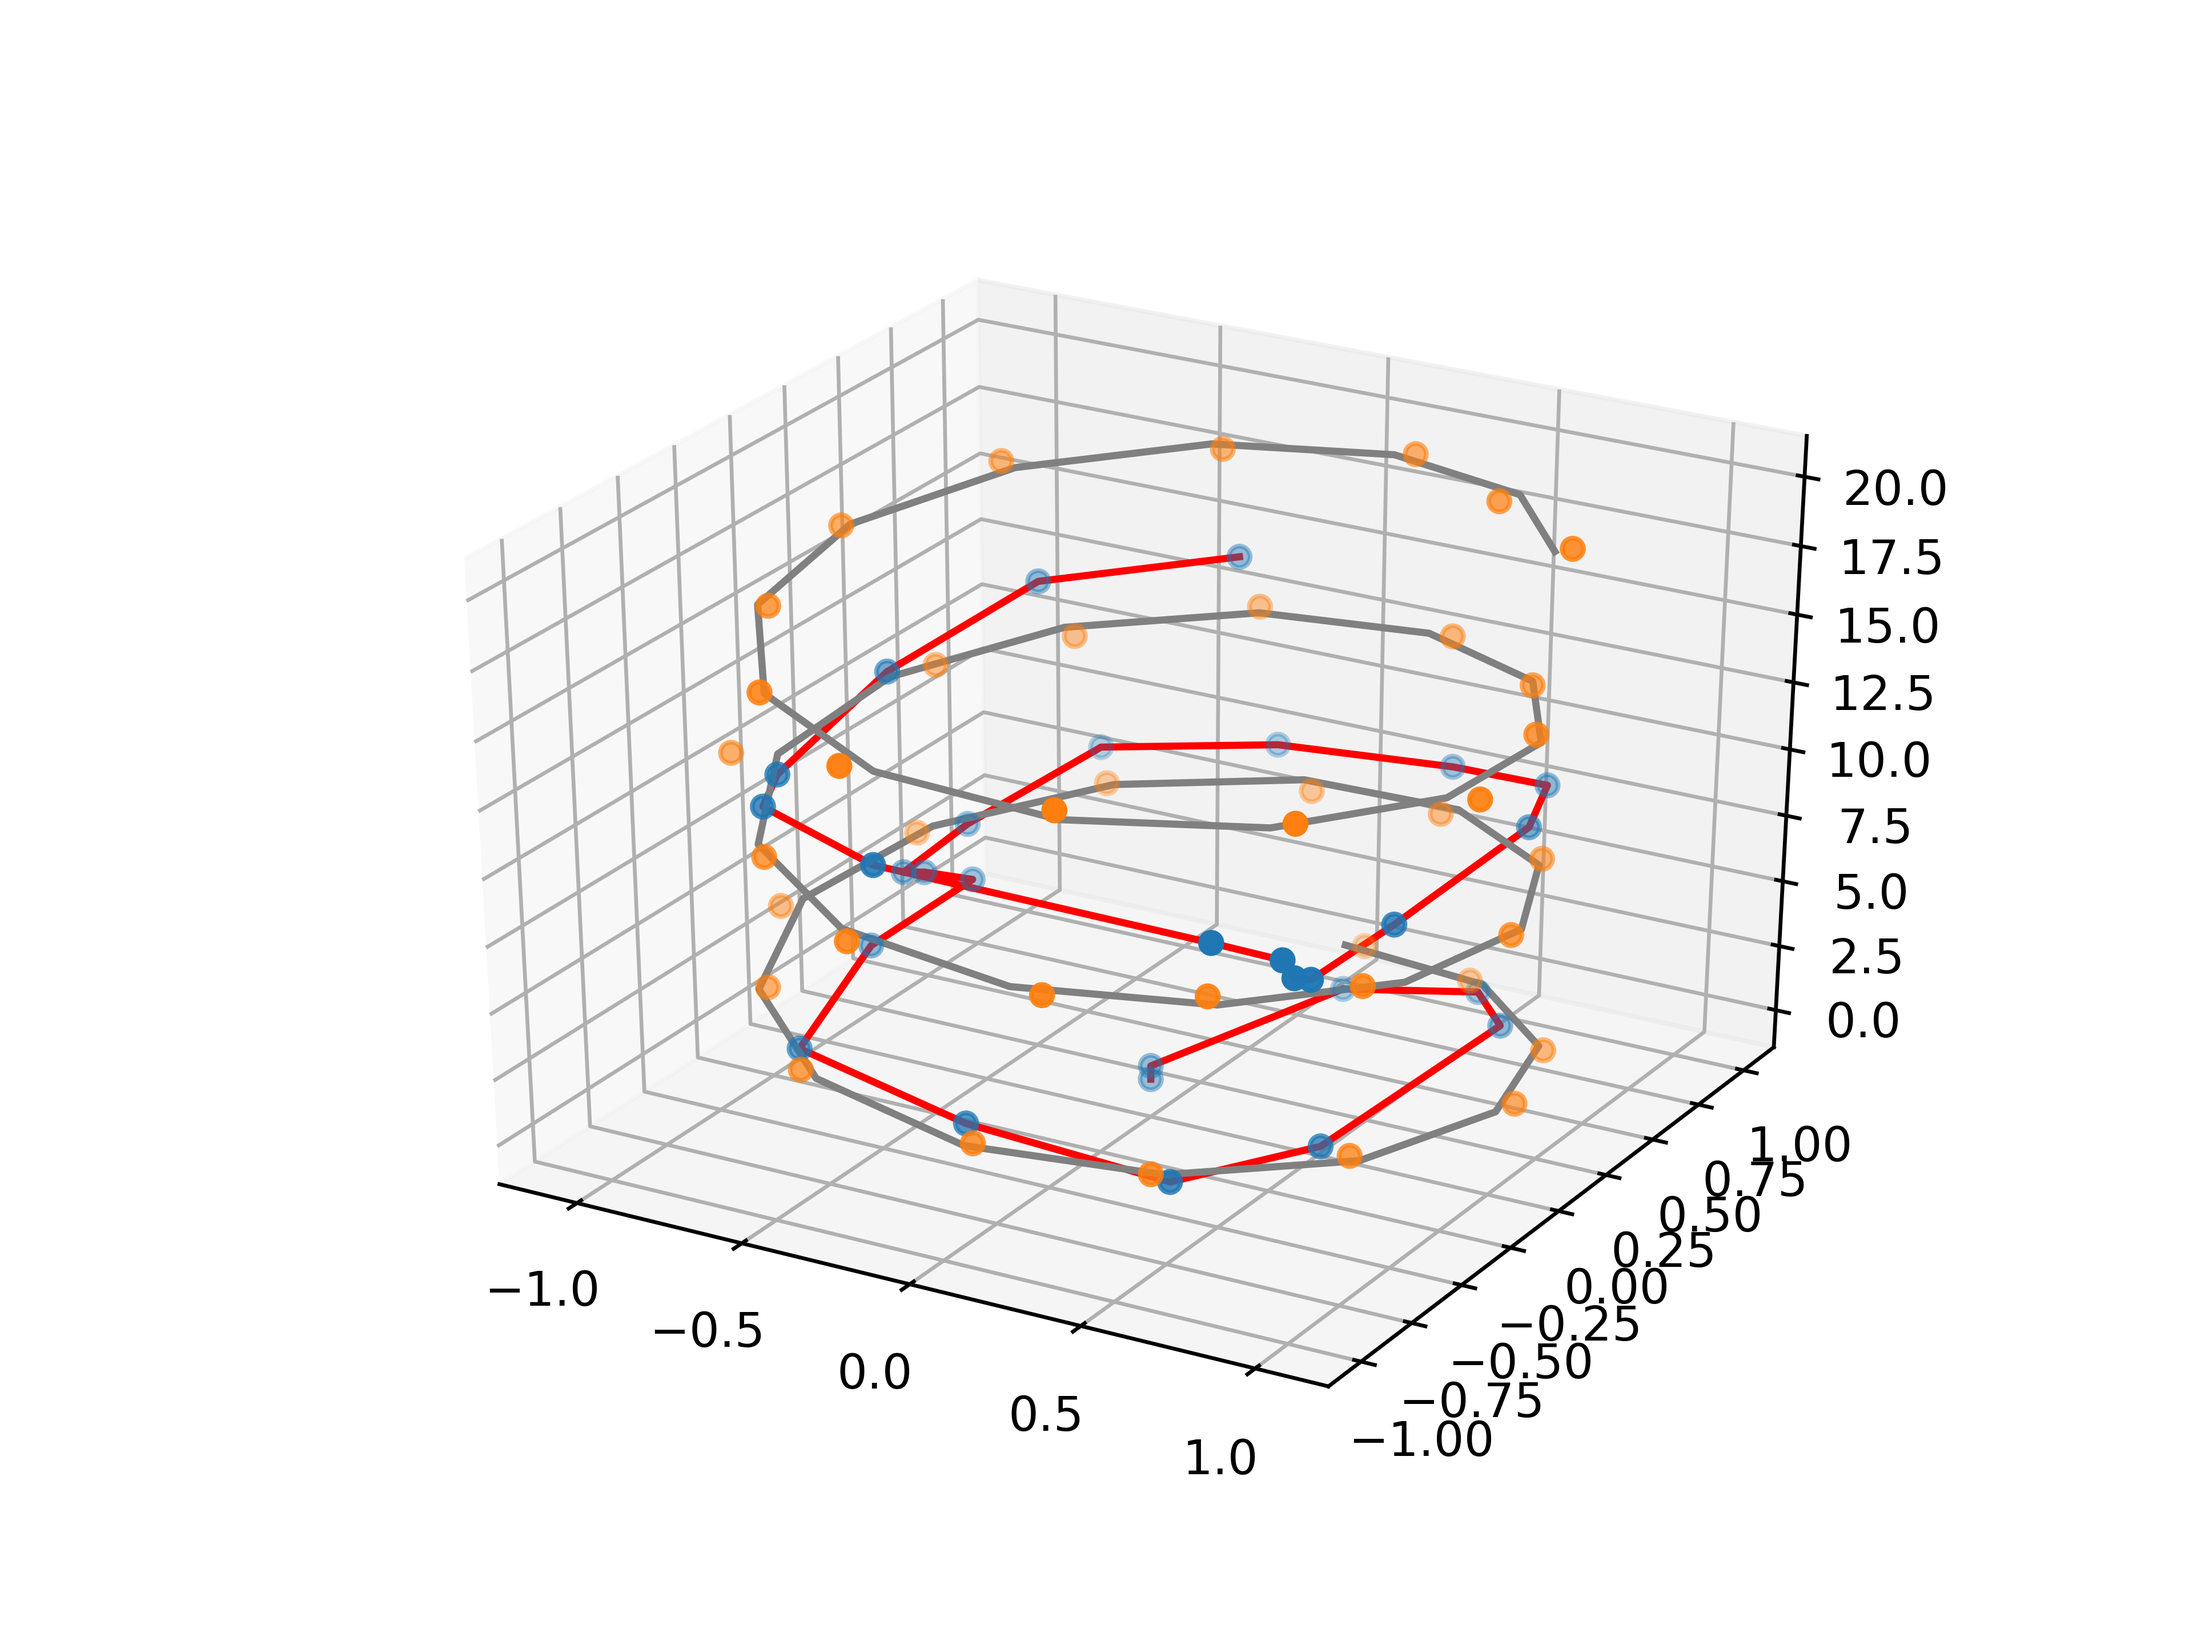
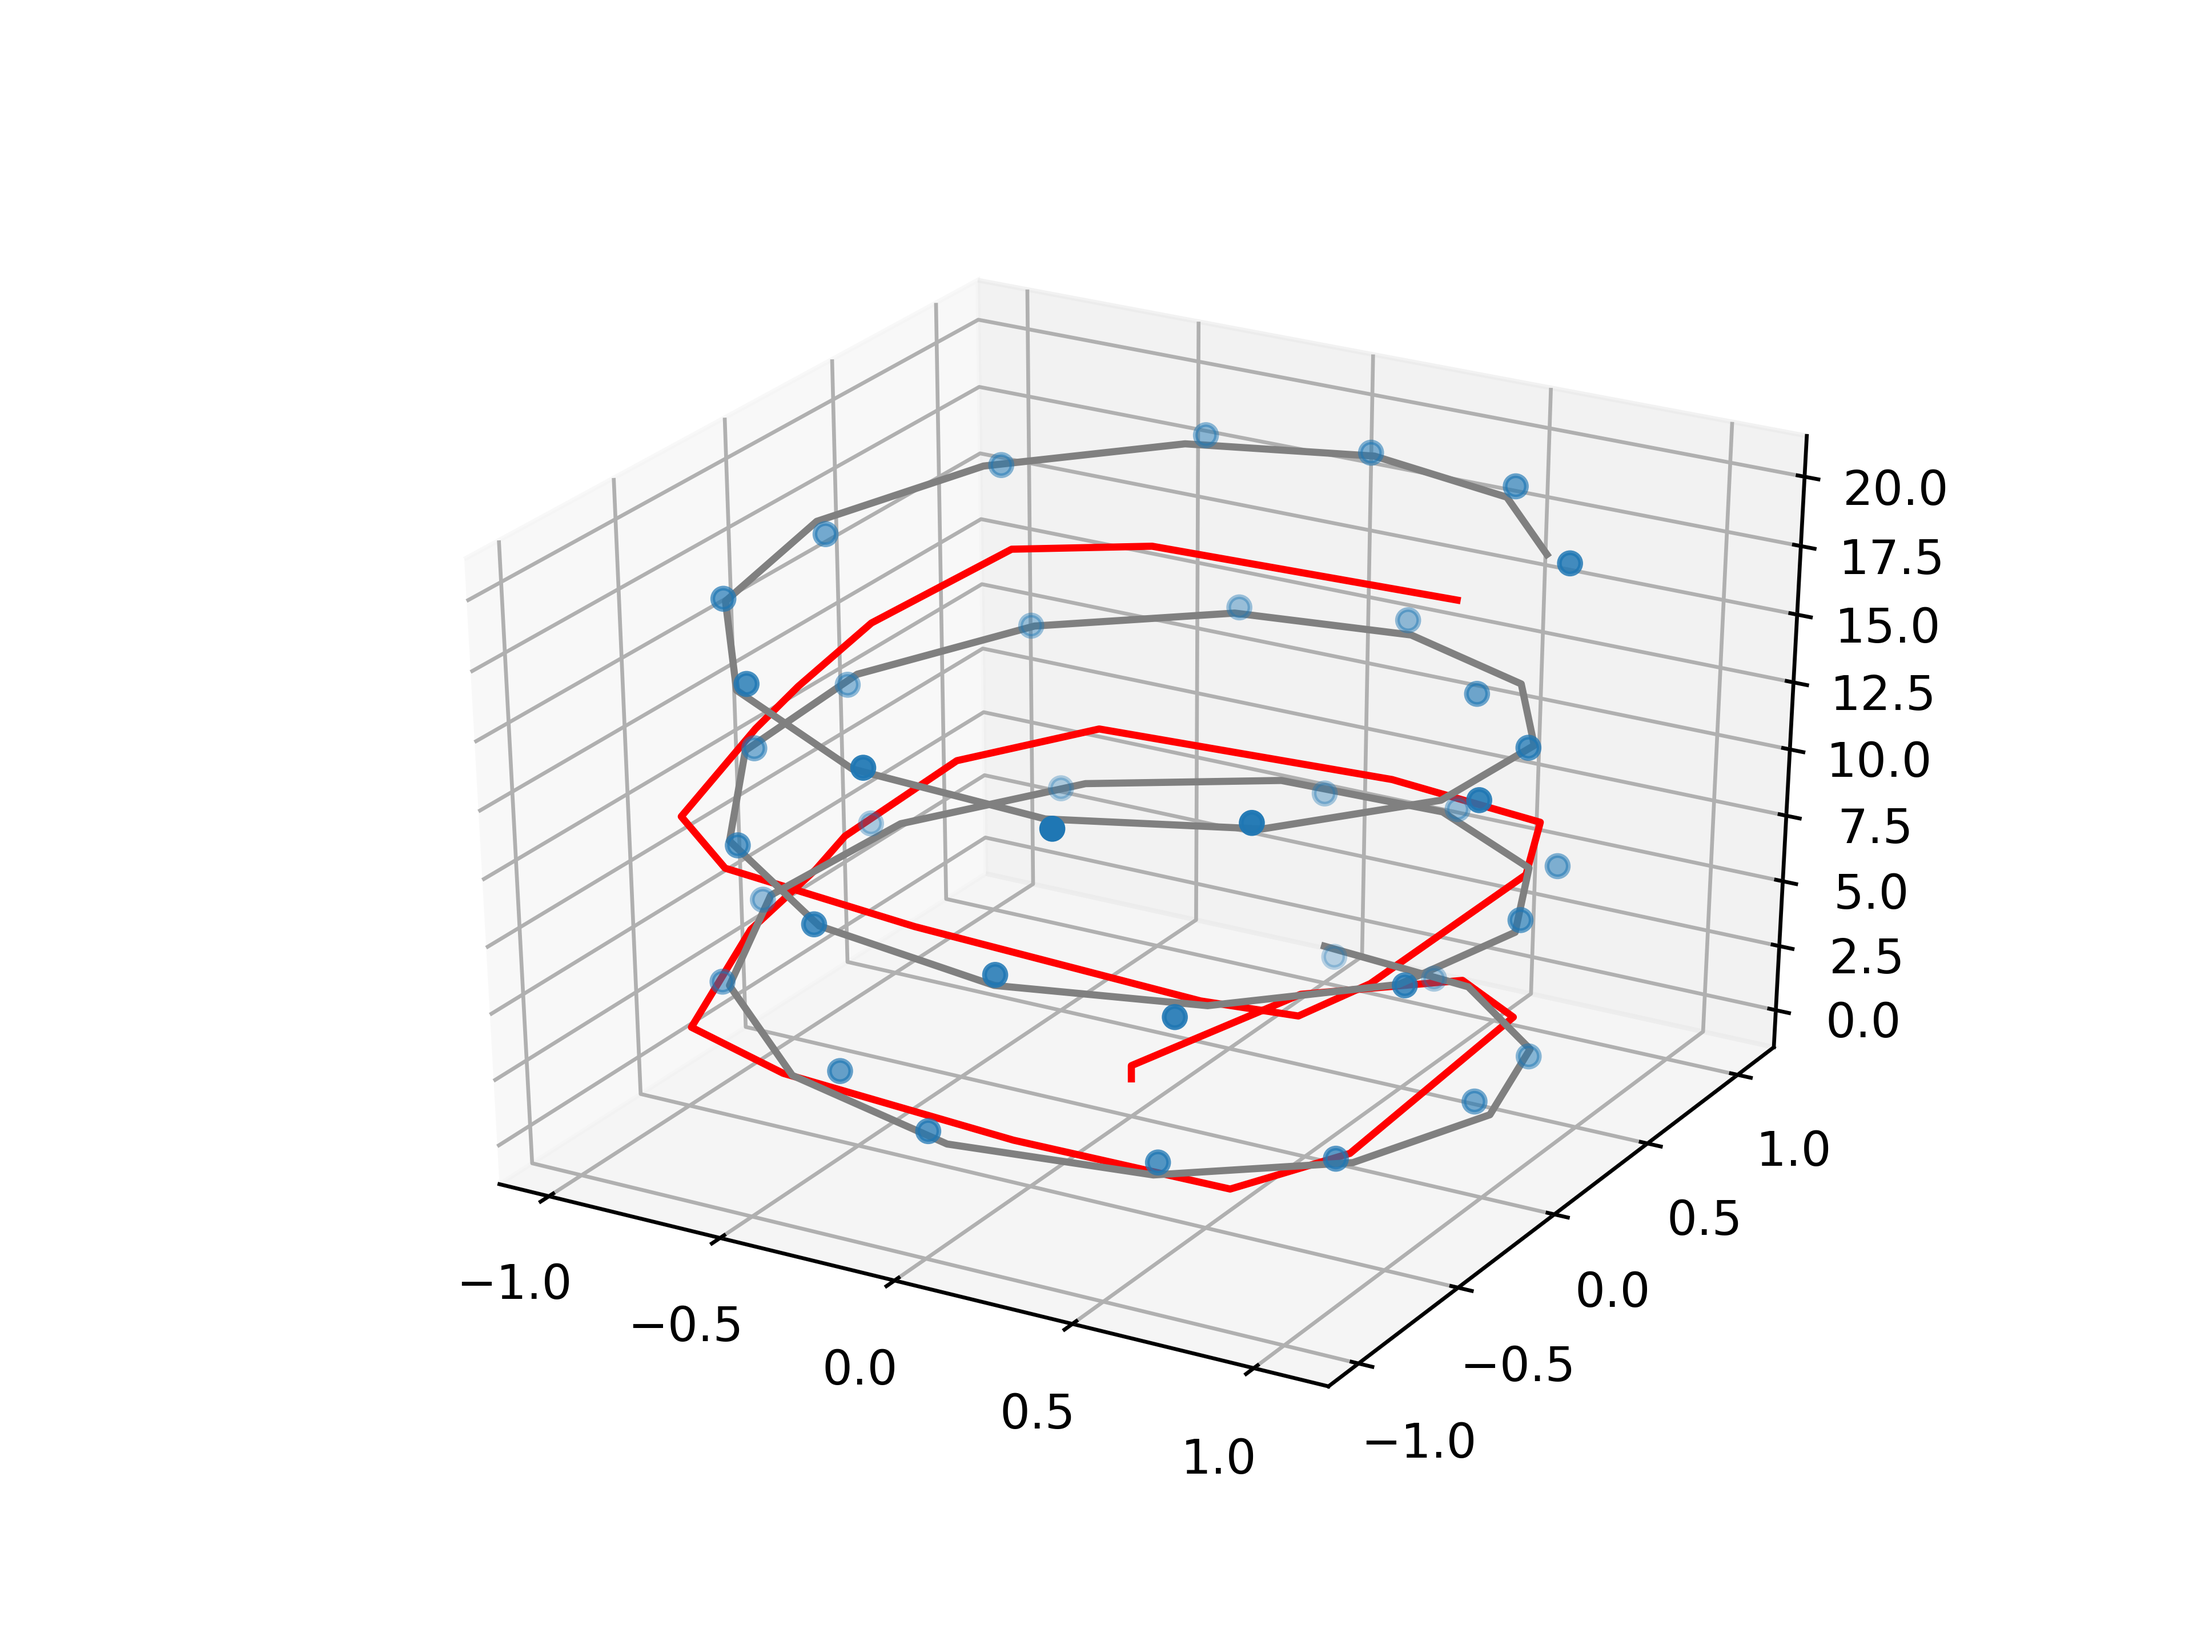
Created GRU_RNN

diff --git a/networks/gru_rnn.py b/networks/gru_rnn.py
@@ -1,0 +1,126 @@
+
+import torch
+import torch.nn as nn
+import torch.optim as optim
+
+import random
+import matplotlib.pyplot as plt
+
+from utils.linear import Linear
+from utils.rnn_cell import GRU_Cell
+from crossbar.crossbar import crossbar
+
+class GRU_RNN(nn.Module):
+
+    def __init__(self, input_layer_size, hidden_layer_size, output_layer_size, device_params):
+
+        super(LSTM_RNN, self).__init__()
+
+        self.input_layer_size = input_layer_size
+        self.hidden_layer_size = hidden_layer_size
+        self.output_layer_size = output_layer_size
+
+        self.cb = crossbar(device_params)
+
+        self.rnn_cell = GRU_Cell(input_layer_size, hidden_layer_size, self.cb)
+        self.linear = Linear(hidden_layer_size, output_layer_size, self.cb)
+    
+    def forward(self, t, x, method="dopri5", step_size=20):
+
+        t = t.reshape(-1).float()
+        N = t.shape[0]
+
+        # Model current output hidden state dynamics
+        h_i = torch.zeros(self.hidden_layer_size, 1)
+        output = torch.zeros(N, self.output_size)
+
+        # Initial layer (h0)
+        if t[0] > 0:
+
+            h_i = self.rnn_cell(x[0], h_i)
+            # h_i = torch.transpose(h_i, 0, 1)
+            out = self.linear(torch.relu(h_i))
+            output[0] = out.reshape(-1)
+
+        for i in range(1, N):
+
+            h_i = self.rnn_cell(x[0], h_i)
+            out = self.linear(torch.relu(h_i))
+            
+            output[0] = out.reshape(-1)
+
+        return out
+
+    def use_cb(self, state):
+        self.linear_in.use_cb(state)
+        self.linear_hidden.use_cb(state)
+        self.solve.use_cb(state)
+
+def train(model, data_gen, epochs):
+
+    examples = data_gen.train_data
+
+    optimizer = optim.Adam(model.parameters(), lr=0.01)
+    loss_function = nn.MSELoss()
+
+    loss_history = []
+
+    for epoch in range(epochs):
+
+        random.shuffle(examples)
+        epoch_loss = []
+
+        for i, (example, label) in enumerate(examples):
+
+            optimizer.zero_grad()
+            prediction = model(example[0].reshape(-1, data_gen.train_window, 2)).reshape(2, 1)
+
+            loss = loss_function(prediction, label)
+            epoch_loss.append(loss)
+            loss.backward()
+            optimizer.step()
+        
+        loss_history.append(sum(epoch_loss) / len(examples))
+        epoch_loss = []
+
+        print('Epoch {:04d} | Total Loss {:.6f}'.format(epoch, loss_history[epoch]))
+
+    # Test
+    seq = data_gen.test_start[0][0]
+    t = data_gen.test_start[0][1]
+    num_predict = 30
+    length = num_predict
+
+    dt = torch.sum(t[1:] - t[0:-1]) / (len(t) - 1)
+    output = []
+    all_t = []
+
+    #model.use_cb(True)
+    
+    with torch.no_grad():
+        for i in range(length):
+            prediction = model(seq.reshape(-1, data_gen.train_window, 2)).reshape(2, 1).reshape(1, -1, 1)
+            seq = torch.cat((seq[1:], prediction), axis=0)
+            all_t.append(t[-1].unsqueeze(0) + dt.unsqueeze(0))
+            t = torch.cat((t[1:], t[-1].unsqueeze(0) + dt.unsqueeze(0)), axis=0)
+            output.append(prediction)
+
+    output, times = torch.cat(output, axis=0), torch.cat(all_t, axis=0)
+
+    ax = plt.axes(projection='3d')
+
+    o1, o2, o3 = output[:, 0].squeeze(), output[:, 1].squeeze(), times.squeeze()
+    # o1, o2, o3 = output[:, 0].squeeze(), output[:, 1].squeeze(), output[:, 2].squeeze()
+    ax.plot3D(o1, o2, o3, 'blue')
+    ax.scatter3D(o1, o2, o3, 'blue')
+    
+    d1, d2, d3 = data_gen.y[0, :].squeeze(), data_gen.y[1, :].squeeze(), data_gen.x.squeeze()
+    # d1, d2, d3 = data_gen.y[0, :].squeeze(), data_gen.y[1, :].squeeze(), data_gen.y[2, :].squeeze()
+    # ax.plot3D(d1, d2, d3, 'gray')
+    ax.plot3D(data_gen.true_x, data_gen.true_y, data_gen.true_z, 'gray')
+    ax.scatter3D(d1, d2, d3, 'gray')
+
+    plt.savefig('./output/lstm_rnn.png', dpi=600, transparent=True)
+
+    return ax
+

diff --git a/fig6.py b/fig6.py
@@ -29,6 +29,9 @@ from networks.latent_ode import train as ode_rnn_test_train
 from networks.lstm_rnn import LSTM_RNN as LSTM_RNN
 from networks.lstm_rnn import train as lstm_train
 
+from networks.gru_rnn import GRU_RNN as GRU_RNN
+from networks.gru_rnn import train as gru_train
+
 # Device parameters for convenience     
 device_params = {"Vdd": 0.2,
                  "r_wl": 20,
@@ -70,10 +73,9 @@ ax = plt.axes(projection='3d')
 # ax.plot3D(data_gen_stoch.y_x.squeeze(), data_gen_stoch.y_y.squeeze(), data_gen_stoch.x.squeeze(), 'gray')
 # ax.scatter3D(data_gen_stoch.data[0][0].squeeze(), data_gen_stoch.data[1].squeeze(), data_gen_stoch.x.squeeze(), 'gray')
 
-
 # Build and train models
 
-epochs = 25
+epochs = 30
 
 # ode_rnn = ODE_RNN_Test(2, 6, 2, device_params)
 # losses_ode_rnn, output_ode_rnn = ode_rnn_test_train(ode_rnn, data_gen, epochs)
@@ -96,7 +98,6 @@ losses_ode_rnn, output_ode_rnn = ode_rnn_train(ode_rnn, data_gen, epochs)
 # Plot loss history
 fig1, ax_loss = plt.subplots()
 fig1.suptitle('ODE-RNN Error')
-
-# ax_loss.plot(list(range(epochs)), losses_ode_rnn, linewidth=1, marker = 's', color='c')
+ax_loss.plot(list(range(epochs)), losses_ode_rnn, linewidth=1, marker = 's', color='c')
 
 plt.show()

diff --git a/networks/ode_rnn.py b/networks/ode_rnn.py
@@ -150,7 +150,8 @@ def train(model, data_gen, epochs):
     print(seq)
     #t = data_gen.test_start[0][1]
     times = data_gen.test_data[0][0][1]
-    num_predict = 15
+    # num_predict currently not being used
+    num_predict = 50
     length = num_predict
 
     # dt = torch.sum(t[1:] - t[0:-1]) / (len(t) - 1)
@@ -190,7 +191,7 @@ def train(model, data_gen, epochs):
     o1, o2, o3 = output[:, 0].squeeze(), output[:, 1].squeeze(), times.squeeze()
     # o1, o2, o3 = output[:, 0].squeeze(), output[:, 1].squeeze(), output[:, 2].squeeze()
     ax.plot3D(o1, o2, o3, 'red')
-    ax.scatter3D(o1, o2, o3, 'red')
+    # ax.scatter3D(o1, o2, o3, 'red')
     
     d1, d2, d3 = data_gen.y[0, :].squeeze(), data_gen.y[1, :].squeeze(), data_gen.x.squeeze()
     # d1, d2, d3 = data_gen.y[0, :].squeeze(), data_gen.y[1, :].squeeze(), data_gen.y[2, :].squeeze()

diff --git a/utils/spiral_generator.py b/utils/spiral_generator.py
@@ -34,7 +34,7 @@ class Epoch_Spiral_Generator():
         
         self.train_data = self.data[:cutoff]
         self.test_start = self.data[0]
-        self.test_data = [((self.y[:, i:i+30].reshape(-1, dimension, 1), self.x[:, i:i+30].reshape(-1, 1, 1)), (self.y[:, i+30:i+31].reshape(dimension, -1))) for i in range(self.y.size(1) - 30)]
+        self.test_data = [((self.y[:, i:i+30].reshape(-1, dimension, 1), self.x[:, i:i+30].reshape(-1, 1, 1)), (self.y[:, i+30:i+31].reshape(dimension, -1))) for i in range(self.y.size(1) - 10)]
 
 class Stochastic_Spiral_Generator():
 
